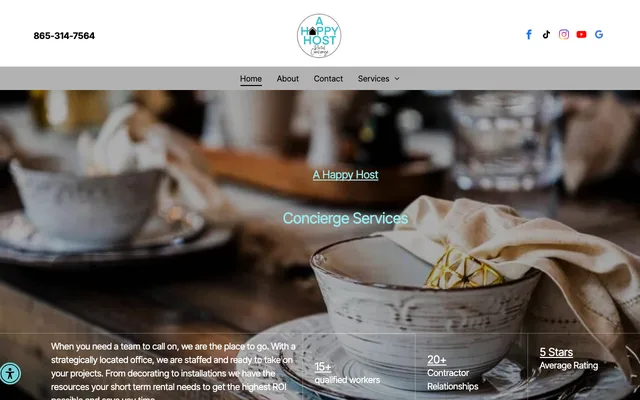
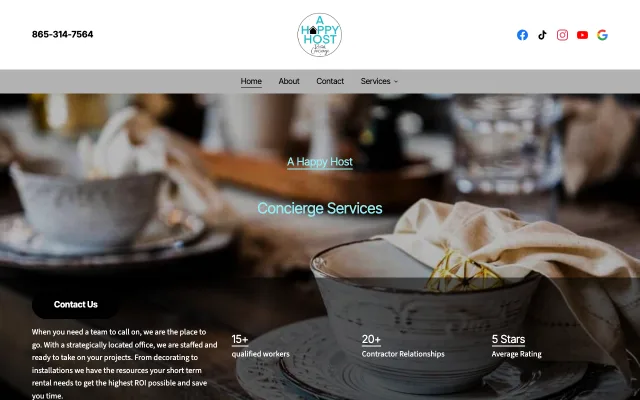
Our work: remove American Fireplaces, fresh screenshots of every client home page
American Fireplaces comes off the Our Work page, its ItemList entry and the
home page's Recent work (Blessed Beginnings takes its place there). All eight
client cards get new 1280x800 home-page captures taken 28 Oct with alt text
updated to match; Downtown River Rentals and Smoky Mountain Espresso now link
to their real domains instead of vercel.app.

diff --git a/work/index.html b/work/index.html
@@ -21,7 +21,7 @@
 <link rel="preload" href="/fonts/fraunces-600-latin.woff2?v=5d28351743" as="font" type="font/woff2" crossorigin>
 <link rel="stylesheet" href="/css/style.css?v=bd54bf3161">
 <script type="application/ld+json">{"@context": "https://schema.org", "@type": "ProfessionalService", "@id": "https://www.saltservicesusa.com/#business", "name": "Salt Services", "description": "Marketing and AI implementation agency in Kodak, Tennessee. CRM implementation, AI implementation, Google and Meta advertising, web design, and SEO/AEO for local businesses in East Tennessee.", "url": "https://www.saltservicesusa.com/", "telephone": "+18667217258", "email": "info@saltservicesusa.com", "image": "https://www.saltservicesusa.com/og-image.png", "logo": "https://www.saltservicesusa.com/images/salt-logo.png", "address": {"@type": "PostalAddress", "addressLocality": "Kodak", "addressRegion": "TN", "addressCountry": "US"}, "areaServed": [{"@type": "City", "name": "Kodak, TN"}, {"@type": "City", "name": "Sevierville, TN"}, {"@type": "City", "name": "Pigeon Forge, TN"}, {"@type": "City", "name": "Gatlinburg, TN"}, {"@type": "City", "name": "Knoxville, TN"}, {"@type": "City", "name": "Maryville, TN"}, {"@type": "City", "name": "Dandridge, TN"}]}</script>
-<script type="application/ld+json">{"@context": "https://schema.org", "@type": "ItemList", "name": "Client websites built by Salt Services", "itemListElement": [{"@type": "ListItem", "position": 1, "name": "American Fireplaces", "url": "https://americanfireplaces.vercel.app/"}, {"@type": "ListItem", "position": 2, "name": "Mountain Landscapers", "url": "https://www.mtnlandscapers.com/"}, {"@type": "ListItem", "position": 3, "name": "Downtown River Rentals", "url": "https://downtown-river-rentals.vercel.app/"}, {"@type": "ListItem", "position": 4, "name": "A Happy Host", "url": "https://www.ahappyhost.com/"}, {"@type": "ListItem", "position": 5, "name": "Smoky Mountain Espresso", "url": "https://smoky-mountain-espresso.vercel.app/"}, {"@type": "ListItem", "position": 6, "name": "Sevier CPAs", "url": "https://www.cpaservicessevierville.com/"}, {"@type": "ListItem", "position": 7, "name": "Colortec Powder Coating", "url": "https://www.colorteccoatings.com/"}, {"@type": "ListItem", "position": 8, "name": "Blessed Beginnings Tire & Service", "url": "https://www.blessedbeginningstire.com/"}, {"@type": "ListItem", "position": 9, "name": "C&R Moving", "url": "https://www.cr-moving.com/"}]}</script>
+<script type="application/ld+json">{"@context": "https://schema.org", "@type": "ItemList", "name": "Client websites built by Salt Services", "itemListElement": [{"@type": "ListItem", "position": 1, "name": "Mountain Landscapers", "url": "https://www.mtnlandscapers.com/"}, {"@type": "ListItem", "position": 2, "name": "Downtown River Rentals", "url": "https://www.downtown-riverrentals.com/"}, {"@type": "ListItem", "position": 3, "name": "A Happy Host", "url": "https://www.ahappyhost.com/"}, {"@type": "ListItem", "position": 4, "name": "Smoky Mountain Espresso", "url": "https://www.smokymountainespresso.com/"}, {"@type": "ListItem", "position": 5, "name": "Sevier CPAs", "url": "https://www.cpaservicessevierville.com/"}, {"@type": "ListItem", "position": 6, "name": "Colortec Powder Coating", "url": "https://www.colorteccoatings.com/"}, {"@type": "ListItem", "position": 7, "name": "Blessed Beginnings Tire & Service", "url": "https://www.blessedbeginningstire.com/"}, {"@type": "ListItem", "position": 8, "name": "C&R Moving", "url": "https://www.cr-moving.com/"}]}</script>
 <script type="application/ld+json">{"@context": "https://schema.org", "@type": "BreadcrumbList", "itemListElement": [{"@type": "ListItem", "position": 1, "name": "Home", "item": "https://www.saltservicesusa.com/"}, {"@type": "ListItem", "position": 2, "name": "Our work", "item": "https://www.saltservicesusa.com/work/"}]}</script>
 </head>
 <body>
@@ -62,17 +62,8 @@
     <h2 class="work-subhead">Client sites</h2>
     <ul class="card-grid two">
       <li class="card work-card">
-        <a href="https://americanfireplaces.vercel.app/" target="_blank" rel="noopener">
-          <img src="/images/work/american-fireplaces.webp?v=83e36de091" alt="American Fireplaces website — dark, ember-lit hero reading 'Gather around something extraordinary'" width="640" height="400" loading="lazy">
-          <div class="work-body">
-            <h3>American Fireplaces</h3>
-            <p>A Sevierville hearth showroom that has warmed the Smokies since 1990 needed a site that felt like standing in front of one of their fireplaces. We built a cinematic brand experience — ember particles included — around their story, their process, and their brands.</p>
-            <span class="card-link">Visit the live site &rsaquo;</span>
-          </div>
-        </a>
-      </li><li class="card work-card">
         <a href="https://www.mtnlandscapers.com/" target="_blank" rel="noopener">
-          <img src="/images/work/mountain-landscapers.webp?v=9d5d7a4475" alt="Mountain Landscapers website — rock-garden hero with the headline 'Landscape Design and Installation, Sevierville, TN'" width="640" height="400" loading="lazy">
+          <img src="/images/work/mountain-landscapers.webp?v=59701ebedd" alt="Mountain Landscapers website — a crew member finishing fresh concrete behind the headline 'Landscape Design and Installation, Sevierville, TN'" width="640" height="400" loading="lazy">
           <div class="work-body">
             <h3>Mountain Landscapers</h3>
             <p>Landscape design, hardscapes, and grounds care for the Smoky Mountain foothills. The site is organized page by page around the searches Sevier County homeowners actually type, from retaining walls to outdoor living.</p>
@@ -80,8 +71,8 @@
           </div>
         </a>
       </li><li class="card work-card">
-        <a href="https://downtown-river-rentals.vercel.app/" target="_blank" rel="noopener">
-          <img src="/images/work/downtown-river-rentals.webp?v=44678990c2" alt="Downtown River Rentals website — cottage porch photo under 'Vacation Homes in Pigeon Forge'" width="640" height="400" loading="lazy">
+        <a href="https://www.downtown-riverrentals.com/" target="_blank" rel="noopener">
+          <img src="/images/work/downtown-river-rentals.webp?v=05687ec250" alt="Downtown River Rentals website — cottage porch photo under 'Riverside Vacation Homes in Pigeon Forge'" width="640" height="400" loading="lazy">
           <div class="work-body">
             <h3>Downtown River Rentals</h3>
             <p>Vacation cottages a short walk from the Pigeon Forge Parkway. The site has one job: direct bookings that skip the booking platforms and their commission.</p>
@@ -90,7 +81,7 @@
         </a>
       </li><li class="card work-card">
         <a href="https://www.ahappyhost.com/" target="_blank" rel="noopener">
-          <img src="/images/work/a-happy-host.webp?v=2806b84dd3" alt="A Happy Host website — concierge services hero for short-term rental owners" width="640" height="400" loading="lazy">
+          <img src="/images/work/a-happy-host.webp?v=9c2c3882ac" alt="A Happy Host website — concierge services hero for short-term rental owners" width="640" height="400" loading="lazy">
           <div class="work-body">
             <h3>A Happy Host</h3>
             <p>A services hub for the short-term rental owners who keep the Smokies' cabins running — cleaning, concierge, and project work, presented so owners can act fast.</p>
@@ -98,8 +89,8 @@
           </div>
         </a>
       </li><li class="card work-card">
-        <a href="https://smoky-mountain-espresso.vercel.app/" target="_blank" rel="noopener">
-          <img src="/images/work/smoky-mountain-espresso.webp?v=ab00fad50b" alt="Smoky Mountain Espresso website — warm coffee shop home page for Sevierville" width="640" height="400" loading="lazy">
+        <a href="https://www.smokymountainespresso.com/" target="_blank" rel="noopener">
+          <img src="/images/work/smoky-mountain-espresso.webp?v=13be998637" alt="Smoky Mountain Espresso website — the shop's timber building under 'A Sevierville coffee shop worth slowing down for'" width="640" height="400" loading="lazy">
           <div class="work-body">
             <h3>Smoky Mountain Espresso</h3>
             <p>A Sevierville coffee shop with regulars to match. Fast, warm, and built to show up when travelers on the Parkway corridor search for coffee worth stopping for.</p>
@@ -108,7 +99,7 @@
         </a>
       </li><li class="card work-card">
         <a href="https://www.cpaservicessevierville.com/" target="_blank" rel="noopener">
-          <img src="/images/work/sevier-cpas.webp?v=8a51bfa26d" alt="Sevier CPAs website — courthouse photo behind 'Local CPA and Accounting Services here in Sevierville'" width="640" height="400" loading="lazy">
+          <img src="/images/work/sevier-cpas.webp?v=df4ac4b6f6" alt="Sevier CPAs website — courthouse photo behind 'Local CPA and Accounting Services here in Sevierville'" width="640" height="400" loading="lazy">
           <div class="work-body">
             <h3>Sevier CPAs</h3>
             <p>Tax prep, bookkeeping, and accounting for Sevier County. Professional-services sites live or die on trust, so this one leads with credentials, clarity, and a straight path to a conversation.</p>
@@ -117,7 +108,7 @@
         </a>
       </li><li class="card work-card">
         <a href="https://www.colorteccoatings.com/" target="_blank" rel="noopener">
-          <img src="/images/work/colortec-coatings.webp?v=24c7736e91" alt="Colortec Powder Coating website — technician spraying a part in the coating booth" width="640" height="400" loading="lazy">
+          <img src="/images/work/colortec-coatings.webp?v=28cb5f0a1f" alt="Colortec Powder Coating website — technician spraying a part in the coating booth" width="640" height="400" loading="lazy">
           <div class="work-body">
             <h3>Colortec Powder Coating</h3>
             <p>Sandblasting and powder coating out of Sevierville, serving everyone from gearheads with a single part to industrial contractors with a full run. A working site for a working shop.</p>
@@ -126,7 +117,7 @@
         </a>
       </li><li class="card work-card">
         <a href="https://www.blessedbeginningstire.com/" target="_blank" rel="noopener">
-          <img src="/images/work/blessed-beginnings.webp?v=bd35be6ee9" alt="Blessed Beginnings Tire & Service website: the shop's roll-up door behind the headline 'Every car gets treated like it's our own'" width="640" height="400" loading="lazy">
+          <img src="/images/work/blessed-beginnings.webp?v=e16cde32a5" alt="Blessed Beginnings Tire & Service website: a tire and torque wrench beside the headline 'Every car gets treated like it's our own'" width="640" height="400" loading="lazy">
           <div class="work-body">
             <h3>Blessed Beginnings Tire &amp; Service</h3>
             <p>A family-run, appointment-only tire shop in Sevierville. Customers can check their tread with a penny, decode the size on their sidewall and see whether the shop is open right now, then book through a two-step request that lands straight in the owners' inbox.</p>
@@ -135,7 +126,7 @@
         </a>
       </li><li class="card work-card">
         <a href="https://www.cr-moving.com/" target="_blank" rel="noopener">
-          <img src="/images/work/cr-moving.webp?v=59ca2e77e4" alt="C&amp;R Moving website: a moving truck at a mountain cabin under 'Sevierville movers who don't scratch a thing', with the quote form beside it" width="640" height="400" loading="lazy">
+          <img src="/images/work/cr-moving.webp?v=bcbf6bb801" alt="C&amp;R Moving website: a moving truck at a mountain cabin under 'Sevierville movers who don't scratch a thing', with the quote form beside it" width="640" height="400" loading="lazy">
           <div class="work-body">
             <h3>C&amp;R Moving</h3>
             <p>A veteran-owned moving crew from Sevierville that moves houses, cabins and apartments across Sevier County and Knoxville. Every page leads to a short quote form, and every call and request comes into one place so no move gets missed.</p>

diff --git a/index.html b/index.html
@@ -146,18 +146,8 @@
     </div>
     <ul class="card-grid">
       <li class="card work-card">
-        <a href="https://americanfireplaces.vercel.app/" target="_blank" rel="noopener">
-          <img src="/images/work/american-fireplaces.webp?v=83e36de091" alt="American Fireplaces website — dark, ember-lit hero reading 'Gather around something extraordinary'" width="640" height="400" loading="lazy">
-          <div class="work-body">
-            <h3>American Fireplaces</h3>
-            <p>A cinematic brand site for a Sevierville hearth showroom that has warmed the Smokies since 1990.</p>
-            <span class="card-link">Visit the live site &rsaquo;</span>
-          </div>
-        </a>
-      </li>
-      <li class="card work-card">
         <a href="https://www.mtnlandscapers.com/" target="_blank" rel="noopener">
-          <img src="/images/work/mountain-landscapers.webp?v=9d5d7a4475" alt="Mountain Landscapers website — rock-garden hero with the headline 'Landscape Design and Installation, Sevierville, TN'" width="640" height="400" loading="lazy">
+          <img src="/images/work/mountain-landscapers.webp?v=59701ebedd" alt="Mountain Landscapers website — a crew member finishing fresh concrete behind the headline 'Landscape Design and Installation, Sevierville, TN'" width="640" height="400" loading="lazy">
           <div class="work-body">
             <h3>Mountain Landscapers</h3>
             <p>Landscape design and hardscapes, built page by page to win Sevier County searches.</p>
@@ -166,11 +156,21 @@
         </a>
       </li>
       <li class="card work-card">
-        <a href="https://downtown-river-rentals.vercel.app/" target="_blank" rel="noopener">
-          <img src="/images/work/downtown-river-rentals.webp?v=44678990c2" alt="Downtown River Rentals website — cottage porch photo under 'Vacation Homes in Pigeon Forge'" width="640" height="400" loading="lazy">
+        <a href="https://www.downtown-riverrentals.com/" target="_blank" rel="noopener">
+          <img src="/images/work/downtown-river-rentals.webp?v=05687ec250" alt="Downtown River Rentals website — cottage porch photo under 'Riverside Vacation Homes in Pigeon Forge'" width="640" height="400" loading="lazy">
           <div class="work-body">
             <h3>Downtown River Rentals</h3>
             <p>A direct-booking site for Pigeon Forge vacation cottages — bookings without the platform commission.</p>
+            <span class="card-link">Visit the live site &rsaquo;</span>
+          </div>
+        </a>
+      </li>
+      <li class="card work-card">
+        <a href="https://www.blessedbeginningstire.com/" target="_blank" rel="noopener">
+          <img src="/images/work/blessed-beginnings.webp?v=e16cde32a5" alt="Blessed Beginnings Tire &amp; Service website: a tire and torque wrench beside the headline 'Every car gets treated like it's our own'" width="640" height="400" loading="lazy">
+          <div class="work-body">
+            <h3>Blessed Beginnings Tire &amp; Service</h3>
+            <p>A family-run tire shop site with a penny tread check, a sidewall size reader and two-step booking.</p>
             <span class="card-link">Visit the live site &rsaquo;</span>
           </div>
         </a>

diff --git a/_build/pages_content.py b/_build/pages_content.py
@@ -140,18 +140,8 @@ HOME_BODY = f"""<section class="hero hero-3d">
     </div>
     <ul class="card-grid">
       <li class="card work-card">
-        <a href="https://americanfireplaces.vercel.app/" target="_blank" rel="noopener">
-          <img src="/images/work/american-fireplaces.webp" alt="American Fireplaces website — dark, ember-lit hero reading 'Gather around something extraordinary'" width="640" height="400" loading="lazy">
-          <div class="work-body">
-            <h3>American Fireplaces</h3>
-            <p>A cinematic brand site for a Sevierville hearth showroom that has warmed the Smokies since 1990.</p>
-            <span class="card-link">Visit the live site &rsaquo;</span>
-          </div>
-        </a>
-      </li>
-      <li class="card work-card">
         <a href="https://www.mtnlandscapers.com/" target="_blank" rel="noopener">
-          <img src="/images/work/mountain-landscapers.webp" alt="Mountain Landscapers website — rock-garden hero with the headline 'Landscape Design and Installation, Sevierville, TN'" width="640" height="400" loading="lazy">
+          <img src="/images/work/mountain-landscapers.webp" alt="Mountain Landscapers website — a crew member finishing fresh concrete behind the headline 'Landscape Design and Installation, Sevierville, TN'" width="640" height="400" loading="lazy">
           <div class="work-body">
             <h3>Mountain Landscapers</h3>
             <p>Landscape design and hardscapes, built page by page to win Sevier County searches.</p>
@@ -160,11 +150,21 @@ HOME_BODY = f"""<section class="hero hero-3d">
         </a>
       </li>
       <li class="card work-card">
-        <a href="https://downtown-river-rentals.vercel.app/" target="_blank" rel="noopener">
-          <img src="/images/work/downtown-river-rentals.webp" alt="Downtown River Rentals website — cottage porch photo under 'Vacation Homes in Pigeon Forge'" width="640" height="400" loading="lazy">
+        <a href="https://www.downtown-riverrentals.com/" target="_blank" rel="noopener">
+          <img src="/images/work/downtown-river-rentals.webp" alt="Downtown River Rentals website — cottage porch photo under 'Riverside Vacation Homes in Pigeon Forge'" width="640" height="400" loading="lazy">
           <div class="work-body">
             <h3>Downtown River Rentals</h3>
             <p>A direct-booking site for Pigeon Forge vacation cottages — bookings without the platform commission.</p>
+            <span class="card-link">Visit the live site &rsaquo;</span>
+          </div>
+        </a>
+      </li>
+      <li class="card work-card">
+        <a href="https://www.blessedbeginningstire.com/" target="_blank" rel="noopener">
+          <img src="/images/work/blessed-beginnings.webp" alt="Blessed Beginnings Tire &amp; Service website: a tire and torque wrench beside the headline 'Every car gets treated like it's our own'" width="640" height="400" loading="lazy">
+          <div class="work-body">
+            <h3>Blessed Beginnings Tire &amp; Service</h3>
+            <p>A family-run tire shop site with a penny tread check, a sidewall size reader and two-step booking.</p>
             <span class="card-link">Visit the live site &rsaquo;</span>
           </div>
         </a>
@@ -741,24 +741,20 @@ def work_entry(href, img, alt, name, blurb):
       </li>"""
 
 WORK_ENTRIES = "".join([
-    work_entry("https://americanfireplaces.vercel.app/", "american-fireplaces",
-        "American Fireplaces website — dark, ember-lit hero reading 'Gather around something extraordinary'",
-        "American Fireplaces",
-        "A Sevierville hearth showroom that has warmed the Smokies since 1990 needed a site that felt like standing in front of one of their fireplaces. We built a cinematic brand experience — ember particles included — around their story, their process, and their brands."),
     work_entry("https://www.mtnlandscapers.com/", "mountain-landscapers",
-        "Mountain Landscapers website — rock-garden hero with the headline 'Landscape Design and Installation, Sevierville, TN'",
+        "Mountain Landscapers website — a crew member finishing fresh concrete behind the headline 'Landscape Design and Installation, Sevierville, TN'",
         "Mountain Landscapers",
         "Landscape design, hardscapes, and grounds care for the Smoky Mountain foothills. The site is organized page by page around the searches Sevier County homeowners actually type, from retaining walls to outdoor living."),
-    work_entry("https://downtown-river-rentals.vercel.app/", "downtown-river-rentals",
-        "Downtown River Rentals website — cottage porch photo under 'Vacation Homes in Pigeon Forge'",
+    work_entry("https://www.downtown-riverrentals.com/", "downtown-river-rentals",
+        "Downtown River Rentals website — cottage porch photo under 'Riverside Vacation Homes in Pigeon Forge'",
         "Downtown River Rentals",
         "Vacation cottages a short walk from the Pigeon Forge Parkway. The site has one job: direct bookings that skip the booking platforms and their commission."),
     work_entry("https://www.ahappyhost.com/", "a-happy-host",
         "A Happy Host website — concierge services hero for short-term rental owners",
         "A Happy Host",
         "A services hub for the short-term rental owners who keep the Smokies' cabins running — cleaning, concierge, and project work, presented so owners can act fast."),
-    work_entry("https://smoky-mountain-espresso.vercel.app/", "smoky-mountain-espresso",
-        "Smoky Mountain Espresso website — warm coffee shop home page for Sevierville",
+    work_entry("https://www.smokymountainespresso.com/", "smoky-mountain-espresso",
+        "Smoky Mountain Espresso website — the shop's timber building under 'A Sevierville coffee shop worth slowing down for'",
         "Smoky Mountain Espresso",
         "A Sevierville coffee shop with regulars to match. Fast, warm, and built to show up when travelers on the Parkway corridor search for coffee worth stopping for."),
     work_entry("https://www.cpaservicessevierville.com/", "sevier-cpas",
@@ -770,7 +766,7 @@ WORK_ENTRIES = "".join([
         "Colortec Powder Coating",
         "Sandblasting and powder coating out of Sevierville, serving everyone from gearheads with a single part to industrial contractors with a full run. A working site for a working shop."),
     work_entry("https://www.blessedbeginningstire.com/", "blessed-beginnings",
-        "Blessed Beginnings Tire & Service website: the shop's roll-up door behind the headline 'Every car gets treated like it's our own'",
+        "Blessed Beginnings Tire & Service website: a tire and torque wrench beside the headline 'Every car gets treated like it's our own'",
         "Blessed Beginnings Tire &amp; Service",
         "A family-run, appointment-only tire shop in Sevierville. Customers can check their tread with a penny, decode the size on their sidewall and see whether the shop is open right now, then book through a two-step request that lands straight in the owners' inbox."),
     work_entry("https://www.cr-moving.com/", "cr-moving",
@@ -800,11 +796,10 @@ WORK_LD = {
     "itemListElement": [
         {"@type": "ListItem", "position": i + 1, "name": n, "url": u}
         for i, (n, u) in enumerate([
-            ("American Fireplaces", "https://americanfireplaces.vercel.app/"),
             ("Mountain Landscapers", "https://www.mtnlandscapers.com/"),
-            ("Downtown River Rentals", "https://downtown-river-rentals.vercel.app/"),
+            ("Downtown River Rentals", "https://www.downtown-riverrentals.com/"),
             ("A Happy Host", "https://www.ahappyhost.com/"),
-            ("Smoky Mountain Espresso", "https://smoky-mountain-espresso.vercel.app/"),
+            ("Smoky Mountain Espresso", "https://www.smokymountainespresso.com/"),
             ("Sevier CPAs", "https://www.cpaservicessevierville.com/"),
             ("Colortec Powder Coating", "https://www.colorteccoatings.com/"),
             ("Blessed Beginnings Tire & Service", "https://www.blessedbeginningstire.com/"),
